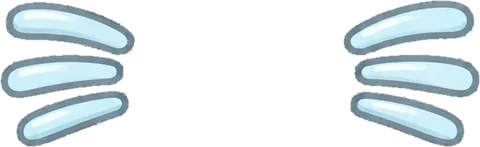
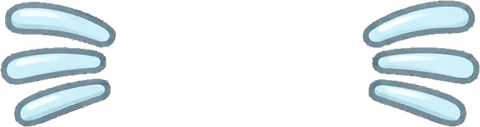
顔のかざり:ひもを線のように、サングラス・ひげの位置、まつげは不採用(未公開。ゲームには未反映)

diff --git a/docs/decisions.md b/docs/decisions.md
@@ -804,3 +804,4 @@ scheme.md の「未定の事項」を決めたらここに追記する。
 - 復習が終わったら、ノートの画面にもどる(クイズの結果から「すぐ復習」したときは、今までどおりモード選択へ)。
 - 上の吹き出しは、まちがいが多い分類(理系・文系・ひらめき)を一言で知らせる(ある分類が2問以上で、半分より多いとき)。
 - 着せ替えの一覧:系統が変わるところに、線と説明(帽子・耳・冠・頭のてっぺん・頭の右上/首まわり・胸・おなか/手に持つ/目のまわり・ほっぺ・顔のマーク)を入れた。「なし」は、最初の行に入れた。見出しの文は badges.js の GROUP_LABELS。Edge で確かめた(ふりがなも付く)。
+- (その60のつづき2)利用者が見本に赤い線を書いて直した:**ひもは、線のように**(1本ずつの、細い線。`strap_mask`=上と下に1本ずつ、耳まで外へ ひらく。`strap_eyepatch`=右は ほぼ水平に耳へ、左は ななめに ヘルメットの左上へ)。**サングラス**は上へ。**猫のひげ**は、左右を外へ(あき 2.1)。**まつげは、赤い×で消された**(不採用の意味。ゲームには入れない。絵 `fp_lashes.webp` は残してある)。→ かざりは13こ。
